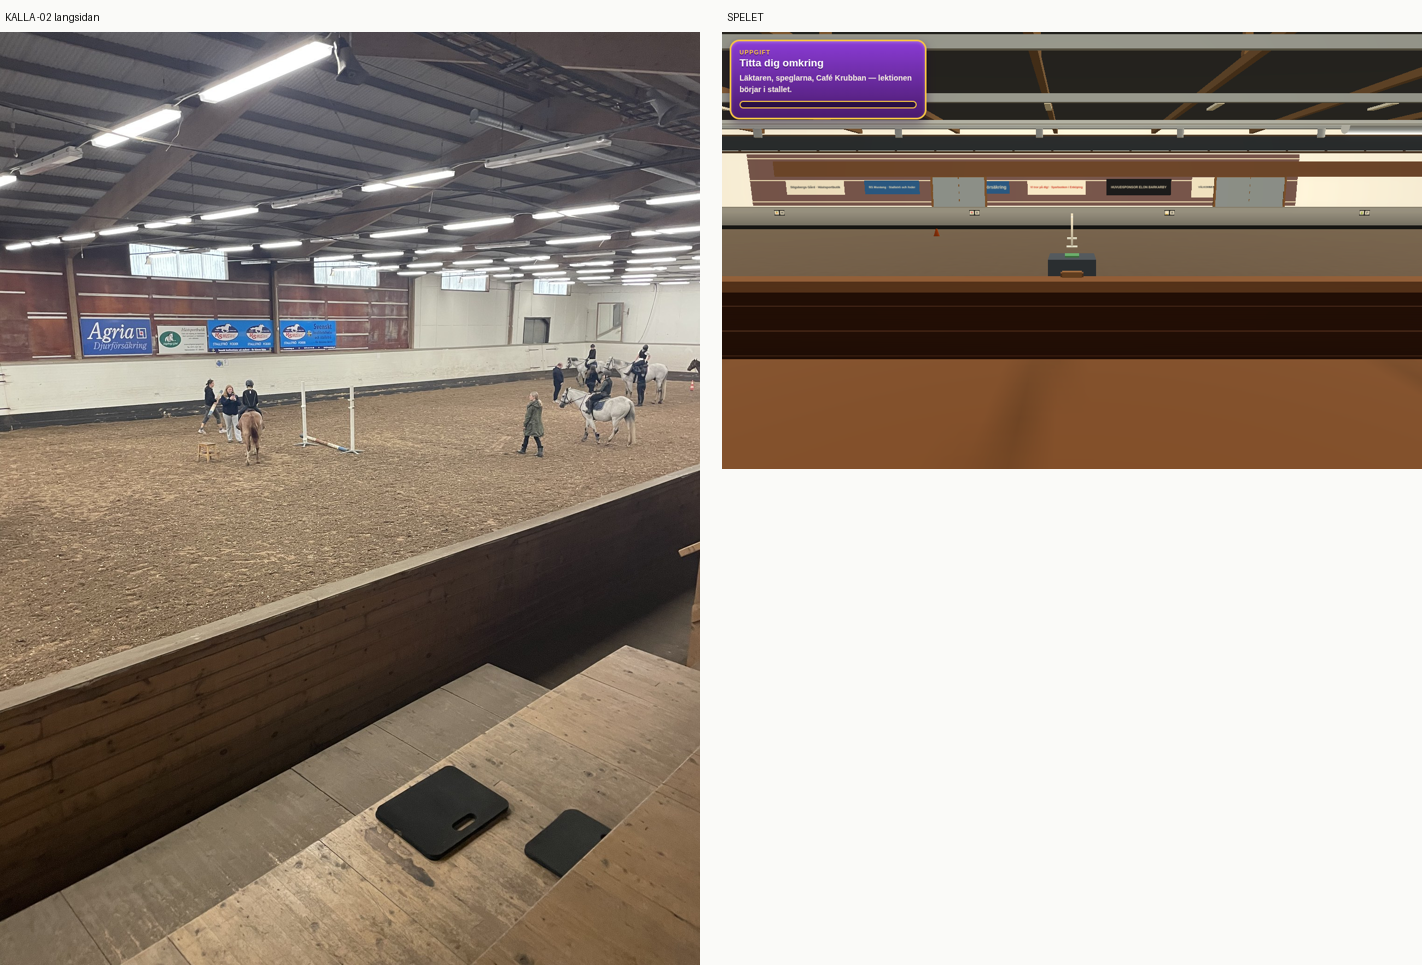
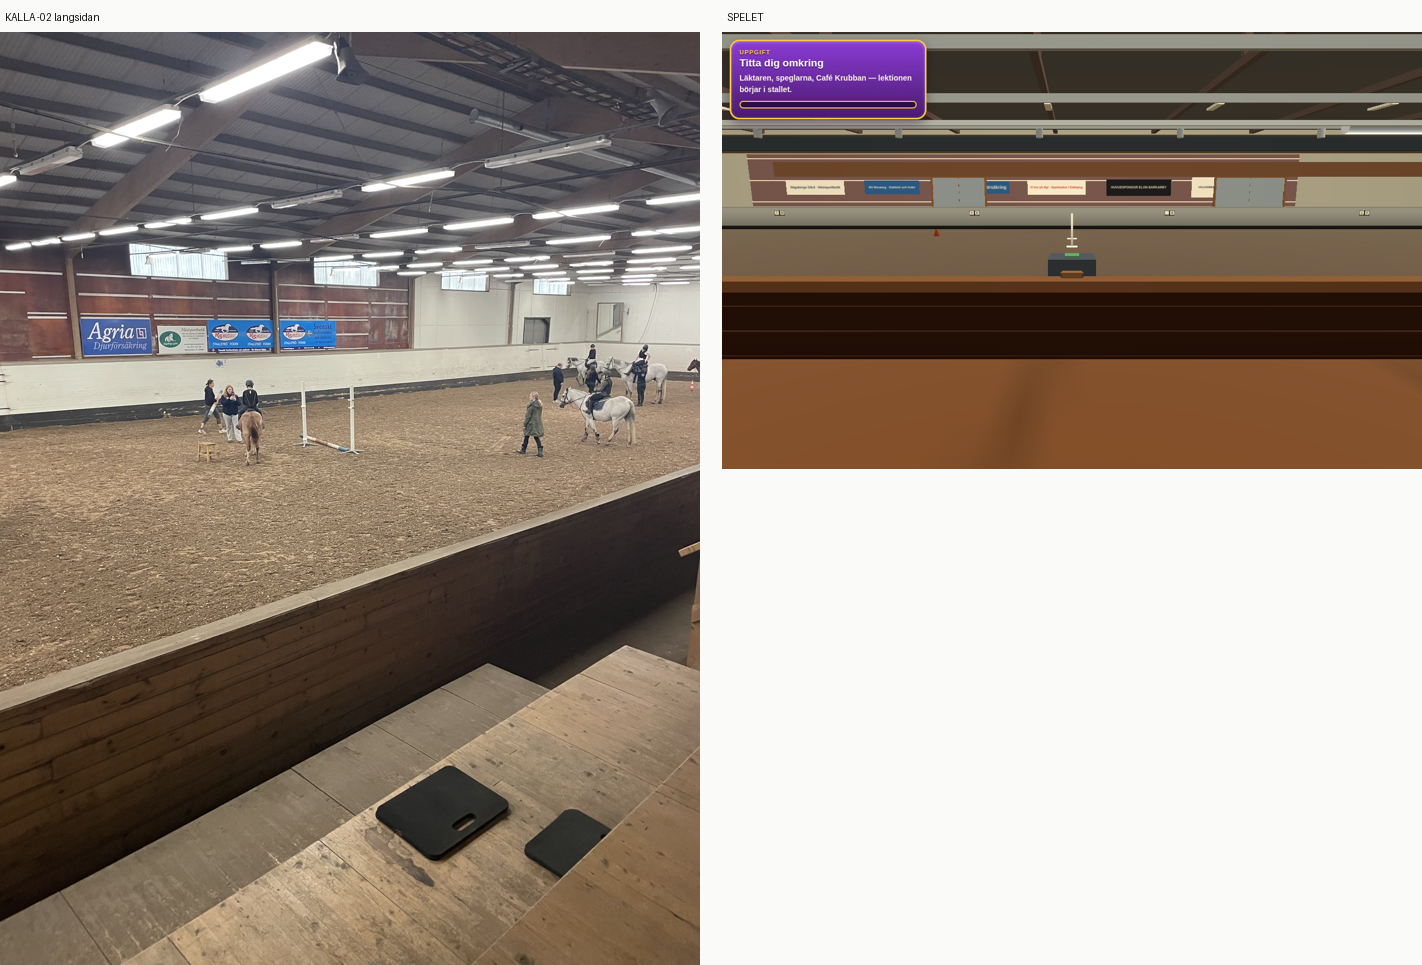
Punkt 7 andra passet: hallens väggar, tak och bänkar var literaler
Fyra ytor lästes aldrig ur datan utan låg som literaler i renderaren — samma
mönster som sanden, silon, gårdsplanen och sponsorskyltarna.

Hallens väggar låg på rent "#FFFFFF" och renderades utfrätta. Vit är inte ett
mätt värde. Mätt i ridhus-inne-01: #ACA99D.

Kortändans bänkar låg på "#D8C7A4", ljus furu. Fotot ger #86715B, en varm
mellanbrun. Roblox hade dessutom sin EGEN ton (INRE.laktare) — två sanningar
om samma bänk. Nu delar de en.

RIDHUSETS TAK ÄR INTE STALLETS. En värmemask över takzonen fann 35 kpx varma
mot 517 kpx neutrala: takstolarna läser mörkt gråbruna, nästan neutrala, till
skillnad från stallets tydligt varma limträ. Spelet hade en varm mellanbrun
balk (#7A5C3E) och en mörk blågrå plåt (#3A3E44) — båda fel, åt var sitt
håll. Att jag mätt stallets tak först gjorde det lätt att anta samma sak här;
masken sa något annat.

Två nya paritetstester, båda falsifierade genom att ge Roblox egen färg igen.
Ett av dem avslöjade att en av mina ändringar TYST INTE APPLICERATS — jag
hade utelämnat asserten på just den ersättningen. Den är applicerad nu, med
assert.

Kvarstående redovisas som RENDERING LIMITATION, inte som tre fel: alla tre
ytor renderas varmare än fotot med blått nedtryckt 15–25 enheter, samma
signatur över hela scenen. Ytorna ligger på sina mätta värden.

Claude-Session: https://claude.ai/code/session_01RBDjv5xAUC4NuuvYQvQjGc

Changed region(s): [[0.4951, 0.1244, 1.0, 0.2176]]

diff --git a/src/varld3d.js b/src/varld3d.js
@@ -1187,19 +1187,19 @@ function v3dRidhus(lagg,opp){
   lagg(sarg,null);
   /* Ytterväggar, sadeltak och limträstolar. */
   const hall=new Bygge();
-  hall.lada(R.bredd,R.tak,0.3,"#FFFFFF",M4.translation(R.bredd/2,R.tak/2,-0.15));
-  hall.lada(R.bredd,R.tak,0.3,"#FFFFFF",M4.translation(R.bredd/2,R.tak/2,R.langd+0.15));
-  hall.lada(0.3,R.tak,R.langd,"#FFFFFF",M4.translation(-0.15,R.tak/2,R.langd/2));
-  hall.lada(0.3,R.tak,R.langd,"#FFFFFF",M4.translation(R.bredd+0.15,R.tak/2,R.langd/2));
+  hall.lada(R.bredd,R.tak,0.3,R.hallvagg,M4.translation(R.bredd/2,R.tak/2,-0.15));
+  hall.lada(R.bredd,R.tak,0.3,R.hallvagg,M4.translation(R.bredd/2,R.tak/2,R.langd+0.15));
+  hall.lada(0.3,R.tak,R.langd,R.hallvagg,M4.translation(-0.15,R.tak/2,R.langd/2));
+  hall.lada(0.3,R.tak,R.langd,R.hallvagg,M4.translation(R.bredd+0.15,R.tak/2,R.langd/2));
   const halvS=R.bredd/2, resn=2.8;
   const takL=Math.hypot(halvS,resn), takV=Math.atan2(resn,halvS);
   /* Takfallen lutar ned mot väggarna — samma teckenregel som utvändigt. */
   for(const s of [-1,1])
-    hall.lada(takL,0.18,R.langd+0.6,"#3A3E44",
+    hall.lada(takL,0.18,R.langd+0.6,R.takfarg.plat,
       M4.mul(M4.translation(R.bredd/2+s*halvS/2,R.tak+resn/2,R.langd/2),M4.rotZ(-s*takV)));
   for(let z=1;z<R.langd;z+=6){
-    hall.lada(R.bredd,0.26,0.24,"#7A5C3E",M4.translation(R.bredd/2,R.tak-0.2,z));
-    hall.lada(0.22,2.7,0.22,"#7A5C3E",M4.translation(R.bredd/2,R.tak+1.3,z));
+    hall.lada(R.bredd,0.26,0.24,R.takfarg.balk,M4.translation(R.bredd/2,R.tak-0.2,z));
+    hall.lada(0.22,2.7,0.22,R.takfarg.balk,M4.translation(R.bredd/2,R.tak+1.3,z));
   }
   /* ── MOTSÄGELSE 2 ur DRIVE-SOURCE-INDEX ──────────────────────────
      `IMG_0179` och `IMG_0183`: taket har stora träbalkar PLUS
@@ -1427,8 +1427,8 @@ function v3dRidhus(lagg,opp){
         M4.translation(xm,SO/2,(K.y0+K.y1)/2));
     for(let i=0;i<K.steg;i++){
       const z=K.y1-i*K.stegD-K.stegD/2, y=SO+K.stegH*(i+1);
-      gl.lada(br,0.08,K.stegD-0.05,"#D8C7A4",M4.translation(xm,y,z));   // sittplanka
-      gl.lada(br,K.stegH,0.06,"#C0AC88",
+      gl.lada(br,0.08,K.stegD-0.05,K.bank,M4.translation(xm,y,z));   // sittplanka
+      gl.lada(br,K.stegH,0.06,K.bankSatt,
         M4.translation(xm,y-K.stegH/2,z+K.stegD/2));                    // sättsteg
     }
     /* De två trapporna upp, med mörka träräcken. */

diff --git a/src/site.js b/src/site.js
@@ -1157,6 +1157,24 @@ const RIDHUSINNE = {
   bredd:RIDHUS_BREDD, langd:RIDHUS_LANGD, tak:6.2, entre:13,
   bana:{x:0.6, y:2, w:20, h:60}, sargH:1.35,
   vagg:"#E9E5DC", sockel:"#2E2E2C", sandFarg:"#6F5D4D", gangFarg:"#8C8880",
+  /* HALLENS EGNA YTOR, alla MÄTTA i `ridhus-inne-01` och alla tidigare
+     literaler i renderaren — samma dolda-literal-mönster som sanden, silon
+     och sponsorskyltarna.
+
+       hallvagg   #ACA99D   den vita väggen vid kortändan (sd 27)
+       takfarg.balk #5C4C45 takstolarna
+       takfarg.plat #5E5B5E undertakets plåt (517 kpx)
+
+     VIKTIGT om taket: ridhusets takstolar är INTE varma som stallets
+     limträ. En värmemask på hela takzonen fann bara 35 kpx varma pixlar mot
+     517 kpx neutrala — balkarna läser mörkt gråbruna, nästan neutrala.
+     Spelet hade `#7A5C3E`, en varm mellanbrun, och undertaket `#3A3E44`,
+     en mörk blågrå. Båda drog åt fel håll.
+
+     Väggarna låg på rent `#FFFFFF` och renderades utfrätta. Vit är inte ett
+     mätt värde — samma sak som stallets väggar. */
+  hallvagg:"#ACA99D",
+  takfarg:{balk:"#5C4C45", plat:"#5E5B5E"},
   /* MOTSÄGELSE 1 ur DRIVE-SOURCE-INDEX (`IMG_0183`): långsidans övre
      väggyta är MÖRKRÖD/MAROON med horisontella detaljer, inte brun
      träpanel. Rättad 2026-08-30. Listen är den horisontella detaljen. */
@@ -1313,6 +1331,9 @@ const RIDHUSINNE = {
                1,6 m är `DERIVED` ur bildens proportioner. */
             trappor:[7.0, 15.5], trappB:1.2, glasH:2.0, glasOver:1.6,
             glasPost:1.9, glasKarm:"#4A3B2E",
+            /* Bänkarna MÄTTA i `-01`: #86715B, en varm mellanbrun. Spelet
+               hade #D8C7A4 — ljus furu, vilket fotot motsäger. */
+            bank:"#86715B", bankSatt:"#6F5C49",
             /* Klockan vid kortändan, MELLAN de två trapporna — x härleds ur
                `trappor` längre ner så att den följer dem. `-01` visar den på
                den vita väggen ovanför blocket. */

diff --git a/tools/exportera-geometri.js b/tools/exportera-geometri.js
@@ -153,7 +153,8 @@ const ut = {
     klocka: RIDHUSINNE.klocka, skyltar: RIDHUSINNE.skyltar,
     basTak: RIDHUSINNE.basTak, sidor: RIDHUSINNE.sidor,
     panel: RIDHUSINNE.panel, panelList: RIDHUSINNE.panelList,
-    sandFarg: RIDHUSINNE.sandFarg,
+    sandFarg: RIDHUSINNE.sandFarg, hallvagg: RIDHUSINNE.hallvagg,
+    takfarg: RIDHUSINNE.takfarg,
     dorrar: RIDHUSINNE.dorrar,
   },
 };

diff --git a/references/buildings/ridhus/INTERIOR-MATRIS.md b/references/buildings/ridhus/INTERIOR-MATRIS.md
@@ -459,3 +459,39 @@ tidigare, och det här var dess dyraste form.
 De mäter nu relationer mot delad data: en sida, bara sitt stycke, rätt sida
 enligt `sidor.panel`, skyltarna innanför stycket, klockan mellan trapporna,
 rosen vänster om trapporna. Alla falsifierade genom att återinföra felet.
+
+---
+
+# Punkt 7, andra passet: hallens egna ytor
+
+Alla fyra var LITERALER i renderaren och lästes aldrig ur datan — samma
+mönster som sanden, silon, gårdsplanen och sponsorskyltarna.
+
+| yta | spelet hade | mätt i `-01` | render efter |
+|---|---|---|---|
+| hallens väggar | `"#FFFFFF"` | `#ACA99D` (sd 27) | `#B5AA8A` |
+| takstolarna | `"#7A5C3E"` varm mellanbrun | `#5C4C45` | — |
+| undertakets plåt | `"#3A3E44"` mörk blågrå | `#5E5B5E` (517 kpx) | `#634B45` (takzon) |
+| kortändans bänkar | `"#D8C7A4"` ljus furu | `#86715B` | `#775C3F` |
+
+## Ridhusets tak är INTE stallets
+
+En värmemask över hela takzonen i `-01` fann **35 kpx varma mot 517 kpx
+neutrala**. Ridhusets takstolar läser mörkt gråbruna, nästan neutrala — till
+skillnad från stallets limträ, som är tydligt varmt. Spelet hade en varm
+mellanbrun balk och en mörk blågrå plåt; båda drog åt fel håll, åt var sitt.
+
+Att jag mätte stallets tak först och fann varmt limträ gjorde det lätt att
+anta samma sak här. Masken sa något annat.
+
+## Kvarstående, redovisat som karaktär och inte som fel
+
+De tre ytorna renderas fortfarande **varmare än fotot**, med blått nedtryckt
+15–25 enheter i alla tre. Det är samma signatur på hela scenen, inte tre
+separata fel, och det hör till webbrenderarens inomhusljus tillsammans med
+trätexturen.
+
+Jag jagar det INTE per yta med kanalvisa hack. Det står som en
+`RENDERING LIMITATION` av samma slag som stallets vägg: ytorna ligger på sina
+mätta värden och avviker hellre åt ett känt håll än att förfalskas var för
+sig.
